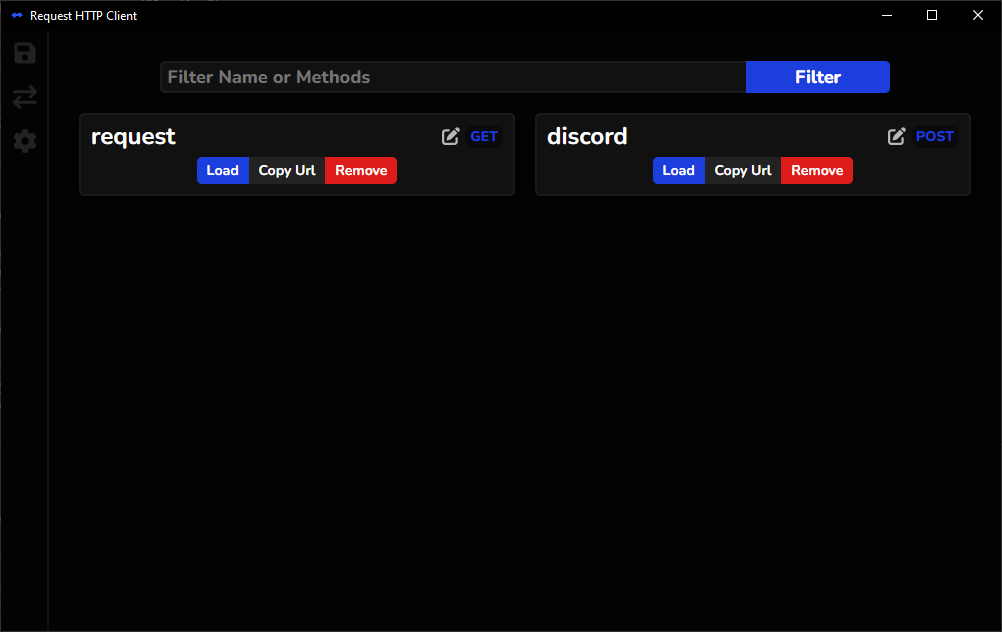
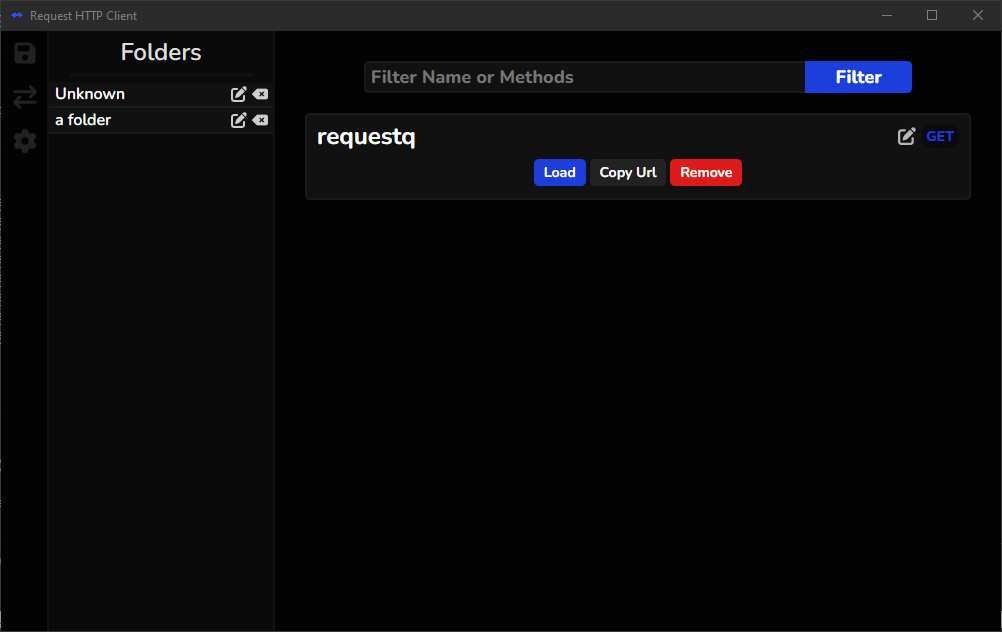
fix rename folder bug

diff --git a/src/components/SaveFolder.vue b/src/components/SaveFolder.vue
@@ -60,6 +60,10 @@ function editFolder() {
 }
 
 async function saveEdit() {
+  if (folderName.value == editedName.value) {
+    edit.value = false;
+    return;
+  }
   let success = await invoke("edit_folder", {
     folder: folderName.value,
     new: editedName.value,
@@ -108,6 +112,7 @@ div {
   display: flex;
   align-items: center;
   justify-content: space-between;
+  padding: 5px;
 }
 
 div:hover {
@@ -115,7 +120,8 @@ div:hover {
   border-bottom: 2px solid #222;
 }
 
-button {
+button,
+input {
   outline: none;
   border: none;
   background: transparent;
@@ -123,8 +129,19 @@ button {
   font-size: 16px;
   font-weight: 600;
   transition: 250ms;
-  cursor: pointer;
   margin: 0;
+}
+
+button {
+  cursor: pointer;
+}
+
+input {
+  background: #2a2a2a;
+  border: 2px solid #333;
+  width: 50%;
+  padding-left: 5px;
+  border-radius: 5px;
 }
 
 span {
